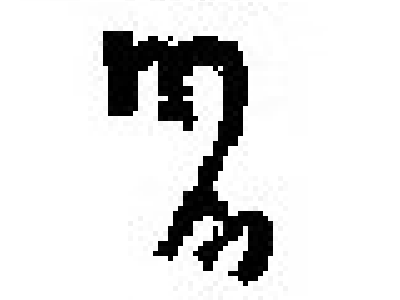
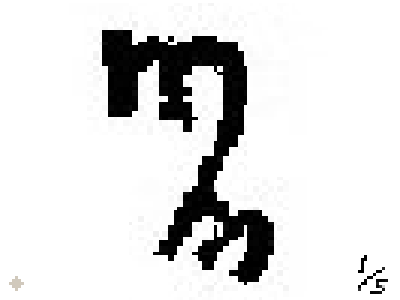
Worked on dialogue and secret clue infos
+edited the secret clue infos to show the number out of 5

+edited barber and phone/kristina dialogue, along with event checks to
make sure player is on track.

diff --git a/scripts/dialogue.js b/scripts/dialogue.js
@@ -29,11 +29,11 @@ function showDialogue(targetDialogue, state){
 	if(targetDialogue == "cop_beach"){
 		if(state == 0){
 			
-			createDialougeBox(textContainer, "Cop: A private investigator huh? We have everything under control here, you can go home.", 1, 2, 3, "Ok, bye.", "Need help?", "I do what I want.");
+			createDialougeBox(textContainer, "Cop: A private investigator huh? We have everything under control here, you can go home.", 1, 2, 3, "Did you know Petey?", "Need help?", "I do what I want.");
 			
 		}else if(state == 1){
 			
-			createDialougeBox(textContainer, "Cop: Bye.", null, null, null, "*Leave*", "*Leave*", "*Leave*");
+			createDialougeBox(textContainer, "Cop: I've heard the others mention him, he was top member in the 100 Cloccs, an off-shoot of the G-Stone Crips, so a pretty dangerous guy.", null, null, null, null, null, "Thanks.");
 			
 		}else if(state == 2){
 			
@@ -95,7 +95,9 @@ function showDialogue(targetDialogue, state){
 	
 	//Creepy cult info man
 	if(targetDialogue == "creep"){
+		
 		var secret = secrets.pop();
+		
 		if(secret == null){
 			if(state == 0){
 				createDialougeBox(textContainer, "Go away", null, null, null, "Leave", "", "");
@@ -104,16 +106,17 @@ function showDialogue(targetDialogue, state){
 				removeFromInventory(secretClue1);
 			}
 		}else{
+			
 			if(secret.label == "M"){
-				createDialougeBox(textContainer, "Animals don't eat fingers.", 1, null, null, "What?", "", "");
+				createDialougeBox(textContainer, "Animals don't eat fingers.", null, null, 1, null, null, "What?");
 			}else if(secret.label == "A"){
 				createDialougeBox(textContainer, "Petey owed a lot more than money. And to someone very important.", null, null, null, "To who?", "", "");
 				removeFromInventory(secretClue2);
 			}else if(secret.label == "N"){
-				createDialougeBox(textContainer, "The cops know what you're up to, be careful.", null, null, null, "Leave", "Leave", "Leave");
+				createDialougeBox(textContainer, "The mob stopped dealing in drugs long ago.", null, null, null, null, null, "Leave");
 				removeFromInventory(secretClue3);
 			}else if(secret.label == "D"){
-				createDialougeBox(textContainer, "Mando controls this city, and everyone in it.", null, null, null, "Leave", "Leave", "Leave");
+				createDialougeBox(textContainer, "Mando controls this city, and everyone in it. But if you complete this case, we could stop them", null, null, null, null, null, "Leave");
 				removeFromInventory(secretClue4);
 			}else if(secret.label == "O"){
 				createDialougeBox(textContainer, "Mando Imperium knows.", null, null, null, "Leave", "Leave", "Leave");
@@ -155,13 +158,26 @@ function showDialogue(targetDialogue, state){
 		if(state == 0){
 			createDialougeBox(textContainer, "Number?", 1, 9, 9, "555-1762", "555-9572", "555-0080");
 		}else if(state == 1){
-			createDialougeBox(textContainer, "This is Kristina, Petey's girlfriend", 2, null, 4, "-->", "", "How long have you known Petey?");
+			createDialougeBox(textContainer, "Kristina: Hello?", 2, null, null, "Hello this is Private Investigator Clive Dixon.", "Sorry wrong number.", null);
 		}else if(state == 2){
-			createDialougeBox(textContainer, "Last I saw Petey he said he was goin to the barber.", 3, null, null, "-->", "Leave", "Leave");
+			createDialougeBox(textContainer, "Kristina: Did you find Petey?", 3, 4, 5, "Um... I'm working on it.", "Yes, he's in a lot of trouble'", "Yes. He's dead Kristina.");
+		
 		}else if(state == 3){
-			createDialougeBox(textContainer, "All I knew is he owed a lot of money to someone. Some ho named Madalin? Madison?", 10, null, null, "Thank you for your cooperation.", "Leave", "Leave");
-		}else if(state ==4){
-			createDialougeBox(textContainer, "Been a few years, but he got me knocked up 4 months ago so now we livin' together", 2, null, null, "-->", "Leave", "Leave");
+			createDialougeBox(textContainer, "Kristina: Well what do you want?", 8, 7, 6, "Where did you say you last saw Petey?", "How long have you two known each other?", "Know any problems Petey was facing?");
+		}else if(state == 4){
+			createDialougeBox(textContainer, "Kristina: Typical. That's Petey, always gettin into trouble.", 8, 7, 6, "Where did you say you last saw Petey?", "How long have you two known each other?", "Know any problems Petey was facing?");
+		}else if(state == 5){
+			createDialougeBox(textContainer, "Kristina: That's what he gets for leaving me.", 8, 7, 6, "Where did you say you last saw Petey?", "How long have you two known each other?", "Know any problems Petey was facing?");
+		
+		}else if(state == 6){
+			createDialougeBox(textContainer, "Kristina: All I knew is he owed a lot of money to someone. Some ho named Madalin? Madison?", 3, null, 10, "I have another question.", null, "Thank you for your cooperation. Goodbye.");
+		}else if(state ==7){
+			createDialougeBox(textContainer, "Kristina: Been a few years, but he got me knocked up 4 months ago so now we livin' together", 3, null, 10, "I have another question.", null, "Thank you for your cooperation. Goodbye.");
+		}else if(state ==8){
+			talkedToKristina = true;
+			createDialougeBox(textContainer, "Kristina: Last I saw Petey he said he was goin to the barber.", 3, null, 10, "I have another question.", null, "Thank you for your cooperation. Goodbye.");
+			
+			
 		}else if(state == 9){
 			createDialougeBox(textContainer, "No Answer.", null, null, null, "Leave", "Leave", "Leave");
 		}else if(state == 10){
@@ -172,25 +188,27 @@ function showDialogue(targetDialogue, state){
 	}
 	
 	if(targetDialogue == "barber"){
+		console.log(talkedToKristina);
 		if(state == 0){
-			createDialougeBox(textContainer, "Need a new trim?", 1, 2, 5, "Not today. Know the name Peter Gonzalez?", "No thanks. But has the NYPD spoken to you lately?", "Sure.");
-			barberDeathEvent = true;
+			createDialougeBox(textContainer, "Need a new trim?", 2, talkedToKristina? 1 : 6, 5, "No thanks. But has the NYPD spoken to you lately?",  talkedToKristina? "Not today. Know the name Peter Gonzalez?" : "Not today" , "Sure.");
 		}else if(state == 1){
-			createDialougeBox(textContainer, "Dont know, doesn't ring a bell", 3, 6, 6, "Cut the shit Vinny, cops are on to you.", "Leave", "Leave");
+			createDialougeBox(textContainer, "Dont know, doesn't ring a bell", 7, 6, 6, "Could you try looking him up in your customer files?", "Leave", "Leave");
 		}else if(state == 2){
 			createDialougeBox(textContainer, "No, what would they need to know from me?", 4, 6, 6, "They said you murdered someone!", "Leave", "Leave");
 		}else if(state == 3){
 			createDialougeBox(textContainer, "I really have no idea what you're talking about.", 4, 6, 6, "They said you murdered someone!", "Leave", "Leave");
 		}else if(state == 4){
-			createDialougeBox(textContainer, "Now I know the cops hate me for my past crimes, but I've been out of the game for years.", 6, 7, 6, "It looks like someone is trying to frame you.", "Can you look up Peter Gonzales in your recipts?", "Leave");
+			createDialougeBox(textContainer, "Now I know the cops hate me for my past crimes, but I've been out of the game for years.", 6, 6, 6, "It looks like someone is trying to frame you.", "I belive you. I'll keep looking into it.", "Leave");
 		}else if(state == 5){
-			createDialougeBox(textContainer, "It will be 18$. Cash only.", 6, null, null, "Oh, I don't have any cash on me, sorry.", "", "");
+			createDialougeBox(textContainer, "It will be 18$. Cash only.", null, null, null, "Oh, I don't have any cash on me, sorry.", null, null);
 		}else if(state == 6){
 			createDialougeBox(textContainer, "Good luck.", null, null, null, "Leave", "Leave", "Leave");
 		}else if(state == 7){
 			createDialougeBox(textContainer, "Sure, let me see...", 8, null, null, "...", "Leave", "Leave");
 		}else if(state == 8){
-			createDialougeBox(textContainer, "Here he is, was in here 2 weeks ago. I remember him now, weird fellow. Kept mumbling about a Mandolin? I assumed it was drugs", 6, null, null, "Thanks.", "Leave", "Leave");
+			createDialougeBox(textContainer, "Here he is, was in here 2 weeks ago. I remember him now, weird fellow. Kept mumbling about a Mandolin? I assumed it was drugs."+
+											 " Then some guy came in here and said he had to go before I could finish.", null, null, 6, null, null, "Thanks.");
+			barberDeathEvent = true;
 		}
 	}
 	

diff --git a/scripts/main.js b/scripts/main.js
@@ -8,12 +8,14 @@ var secretPoints = 0;
 
 var clues = [];
 var secrets = [];
+var secretsCollected = [];
 var found_clues = [];
 var map_array = [];
 
 inventory = new createjs.Container();
 
 var barberDeathEvent = false;
+var talkedToKristina = false;
 
 var beachMap = new map("beach");
 var startMap = new map("start");
@@ -191,10 +193,6 @@ function init() {
  	cityMap.map_Objects.push(secretClue2);
  	
  	//Secret clues
- 	secretClue3 = new Clue(-200, 500, 1, "./assets/secret3.png", 24, 24, "N");
- 	secretClue3.clueInfo = makeInfoSprite("./assets/secret3_info.png");
- 	secretClue3.secret = true;
- 	cityMap.map_Objects.push(secretClue3);
  
 	secretClue5 = new Clue(-300, 500, 1, "./assets/secret5.png", 24, 24, "D");
  	secretClue5.clueInfo = makeInfoSprite("./assets/secret5_info.png");
@@ -334,7 +332,6 @@ function update(){
 				the_clue.stickClueToBack();
 			}
 		}
-		console.log(clues[0].x);
 		//point_text.text = "Points: "+ points;
 	
 	}
